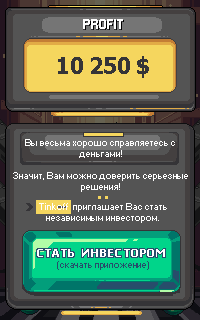
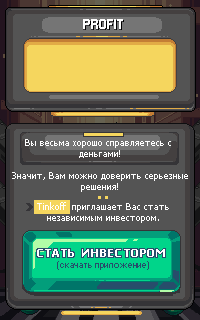
design bugs fixed

diff --git a/winscreen.css b/winscreen.css
@@ -26,7 +26,7 @@
     left: 25%;
     height: 10%;
     font-size: 42px;
-    font-weight: bolder;
+    font-weight: bold;
 }
 
 .winscreen {
@@ -54,7 +54,7 @@
     left: 25%;
     height: 10%;
     font-size: 42px;
-    font-weight: bolder;
+    font-weight: bold;
 }
 
 .shown {

diff --git a/game.js b/game.js
@@ -118,7 +118,7 @@ function Game() {
 
     this.currentStep = this.nextFallCoinNumber = 0;
     this.nextFallCoin = this.coins[0];
-    this.goal = 15000;
+    this.goal = 10;
     this.on = true;
     this.panel = new Panel();
     this.winscreen = new Winscreen();

diff --git a/wolf.css b/wolf.css
@@ -1,6 +1,9 @@
 body {
     margin: 0;
 }
+body * {
+    font-family: "Tahoma", sans-serif;
+}
 
 main {
     width: 100%;
